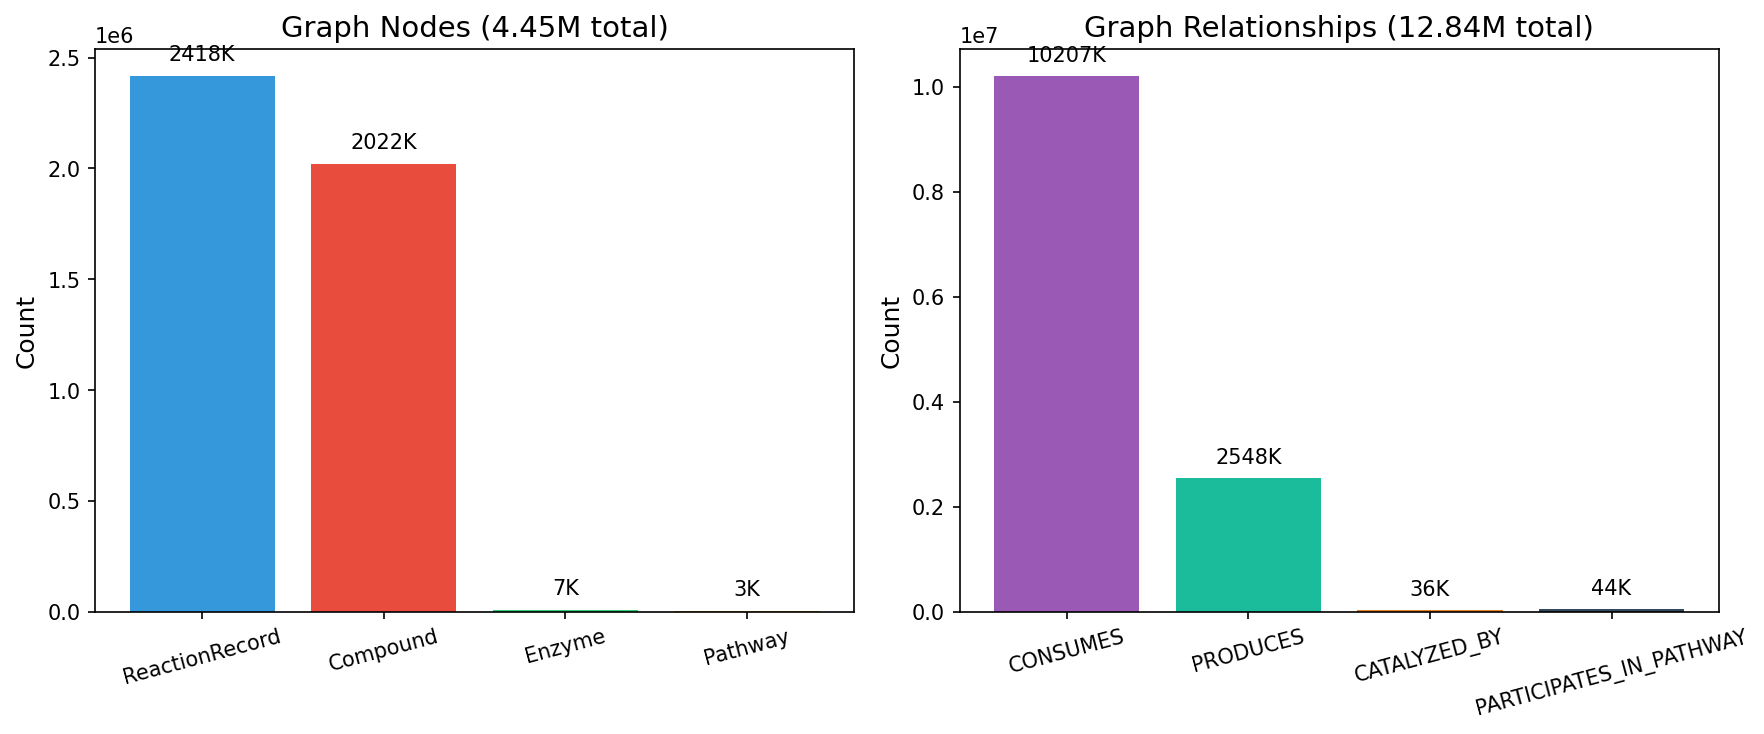
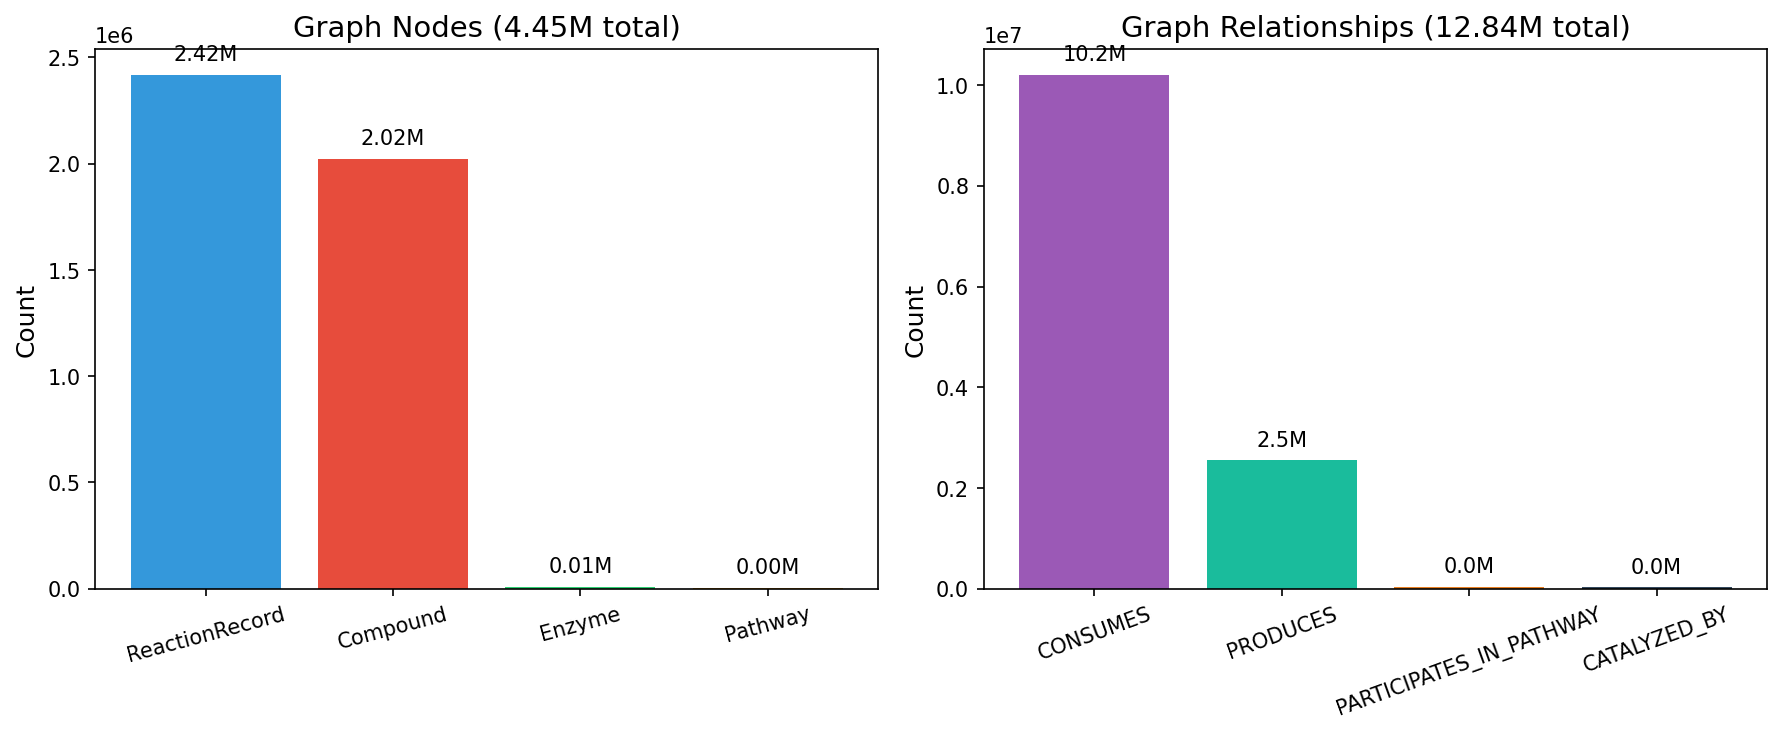
update0409

diff --git a/content/2026-04-09-energyretro-progress/11-bottlenecks.md b/content/2026-04-09-energyretro-progress/11-bottlenecks.md
@@ -1,0 +1,17 @@
+---
+section_key: single
+section_title: 单步逆合成
+subsection_title: 当前 Bottlenecks 与优化方向
+order: 11
+---
+### 当前指标偏低，还需要提升单步逆合成反应的性能，主要考虑从下面几个方面：
+- 当前使用的 `GLM-5` 更偏 `programming / tool-use` 风格模型，结构化输出比较稳定，但在多候选比较、化学反应机理判断、长链式推理上仍弱于真正的强 reasoning model
+- 当前 `context management` 还是静态窗口式的：`ContextBuilder` 只保留有限候选与证据，并用启发式权重聚合，弱证据和相似噪声容易一起进入 prompt
+- 系统还没有把成功路线、失败案例、常见 transformation pattern、enzyme/pathway 证据动态写回为 `memory nodes`，因此每次推理都在“重新开始”
+
+| 优化方向 | 具体要做什么 |
+| --- | --- |
+| 更强的 context 管理 | 做分层上下文压缩、candidate clustering、冲突证据去重、动态窗口分配 |
+| 更强的 prompt 编排 | 为 solver / critic / rewriter 设计更细的角色 prompt、显式步骤化推理和结构化中间产物 |
+| 动态记忆节点 | 把 successful routes、hard negatives、reaction motifs、enzyme/pathway evidence 写回 KG 或 memory layer |
+| 升级 reasoning backbone | 后续尝试更强 reasoning model，或者是8/32/72 B的小一点模型，与当前 GLM-5 agent workflow 做对比评测 |

diff --git a/content/2026-04-09-energyretro-progress/03-graph-schema.md b/content/2026-04-09-energyretro-progress/03-graph-schema.md
@@ -1,0 +1,24 @@
+---
+section_key: graph
+section_title: 构图
+subsection_title: 当前构图方案
+order: 4
+---
+
+- 当前图模型以 `ReactionRecord` 为核心，把所有反应级证据先固定在“反应记录”这一层
+- `Compound` 只保留分子属性，例如 `canonical_smiles`、`inchikey`、`morgan fingerprint`
+- 扩展节点包括 `Enzyme`、`Pathway`、`Fragment`，分别用于酶证据、代谢上下文和子结构检索
+
+| 类型 | 当前设计 | 作用 |
+| --- | --- | --- |
+| 节点 | `ReactionRecord` | 统一承载来源与反应级上下文 |
+| 节点 | `Compound` | 跨来源共享的分子身份 |
+| 节点 | `Enzyme` | 承载酶催化证据，服务酶推荐与可行性分析 |
+| 节点 | `Pathway` | 承载代谢通路上下文，服务 pathway 预测 |
+| 节点 | `Fragment` | 基于 RDKit `85` 个 `fr_*` 规则的片段层节点 |
+| 关系 | `CONSUMES / PRODUCES` | 反应物与产物展开 |
+| 关系 | `CATALYZED_BY` | 把反应记录连接到酶证据 |
+| 关系 | `PARTICIPATES_IN_PATHWAY` | 把反应记录连接到代谢通路 |
+| 关系 | `HAS_FRAGMENT` | 把分子连接到官能团/片段层，用于子结构检索 |
+
+<!-- ![EnergyRetro-KGR 节点关系](assets/EnergyRetro-KGR.png "w=58%") -->

diff --git a/content/260407-EnergyRetro-KGR/08-triple.md b/content/260407-EnergyRetro-KGR/08-triple.md
@@ -2,25 +2,25 @@
 section_key: triple
 section_title: 三元组
 subsection_title: "图谱三元组结构"
-order: 8
+order: 3
 ---
 
 ### 三元组类型统计
 
 | 头实体 | 关系 | 尾实体 | 数量 |
 |--------|------|--------|------|
-| ReactionRecord | CONSUMES | Compound | 31,513 |
-| ReactionRecord | PRODUCES | Compound | 16,718 |
-| ReactionRecord | PARTICIPATES_IN_PATHWAY | Pathway | 15,271 |
-| ReactionRecord | CATALYZED_BY | Enzyme | 4,961 |
+| ReactionRecord | CONSUMES | Compound | 10,207,237 |
+| ReactionRecord | PRODUCES | Compound | 2,548,612 |
+| ReactionRecord | PARTICIPATES_IN_PATHWAY | Pathway | 44,500 |
+| ReactionRecord | CATALYZED_BY | Enzyme | 36,949 |
 
 ### 节点类型统计
 
 | 节点类型 | 数量 | 语义 |
 |----------|------|------|
-| Compound | 11,755 | 化合物/分子 |
-| ReactionRecord | 10,000 | 反应记录 |
-| Enzyme | 2,918 | 酶 (EC编号) |
-| Pathway | 1,607 | 代谢路径 |
+| ReactionRecord | 2,418,465 | 反应记录 |
+| Compound | 2,022,086 | 化合物/分子 |
+| Enzyme | 7,826 | 酶 (EC编号) |
+| Pathway | 3,315 | 代谢路径 |
 
-### 三元组总数: 68,463
+### 三元组总数: 12,837,298

diff --git a/content/2026-04-09-energyretro-progress/08-capabilities.md b/content/2026-04-09-energyretro-progress/08-capabilities.md
@@ -1,0 +1,18 @@
+---
+section_key: retrieval
+section_title: 检索
+subsection_title: 当前图谱已经支持的查询能力
+order: 8
+---
+
+- 当前图谱已经不仅能“存反应”，而且已经能支撑几类直接有用的查询
+- 对 retrosynthesis 来说，最关键的是 `产物 -> 生成反应 -> 前体分子` 
+- 对 bio 相关任务来说，`产物 -> 酶证据` 和 `反应 -> pathway 上下文` 
+
+| 能力 | 当前查询路径 | 说明 |
+| --- | --- | --- |
+| 反查产物生成反应 | `Compound <-[:PRODUCES]- ReactionRecord` | retrosynthesis 基础入口 |
+| 前体展开 | `Compound <- PRODUCES - ReactionRecord - CONSUMES -> Compound` | 可直接做多级逆合成扩展 |
+| 酶证据查询 | `Compound <- PRODUCES - ReactionRecord - CATALYZED_BY -> Enzyme` | 支撑酶反应推荐 |
+| pathway 上下文 | `ReactionRecord - PARTICIPATES_IN_PATHWAY -> Pathway` | 支撑通路推荐/分析 |
+| 跨来源共享产物 | 同一 `Compound` 连接 `BKMS` 与 `ORD` | 支撑有机-酶促桥接分析 |

diff --git a/content/2026-04-09-energyretro-progress/01-overview.md b/content/2026-04-09-energyretro-progress/01-overview.md
@@ -1,0 +1,18 @@
+---
+section_key: overview
+section_title: 总览
+subsection_title: 本周进展
+order: 1
+---
+
+- 本周工作可以概括为三条线：`KG 构图完成`、`检索增强完成`、`single-step baseline 跑通`
+- 当前 `retro` 图谱已经整合 `BKMS + ORD`，形成统一的反应记录、化合物、酶、pathway 底座
+- 图谱规模已经达到 `2.42M ReactionRecord`、`2.02M Compound`、`12.84M` 基础关系，额外添加了 `Fragment` 层
+- staged retrieval 相比 exact match，命中从 `16%` 提升到 `100%`
+- 单步逆合成在 `USPTO50k test` 上测试结果：`Top-1 0.47`、`Top-10 0.59`
+
+| 模块 | 当前状态 | 结论 |
+| --- | --- | --- |
+| 统一构图 | 已经构图 | 图底座已经可查询 |
+| 检索增强 | 已评估 | recall 和抗噪声能力提升 |
+| single-step | 已跑通 | 先验证流程，再继续提精度 |

diff --git a/content/2026-04-09-energyretro-progress/04-scale.md b/content/2026-04-09-energyretro-progress/04-scale.md
@@ -1,0 +1,23 @@
+---
+section_key: graph
+section_title: 构图
+subsection_title: 数据来源与图谱规模
+order: 3
+---
+
+- 数据来源分两部分：`BKMS` 提供酶催化/代谢反应，`ORD` 提供大规模有机反应实验记录
+- 当前全量导入结果：
+  `BKMS 42,345` 条反应，`ORD 2,376,120` 条反应，合计 `2,418,465 ReactionRecord`
+- 当前基础图规模为 `4.45M` 节点、`12.84M` 基础关系，已经达到真实可检索的百万/千万级别
+- 在基础图之上，还额外挂上了 `85 Fragment` 节点和 `18.89M HAS_FRAGMENT` 边，作为子结构检索层
+
+| 统计项 | 数值 |
+| --- | --- |
+| `ReactionRecord` | 2,418,465 |
+| `Compound` | 2,022,086 |
+| `Enzyme` | 7,826 |
+| `Pathway` | 3,315 |
+| `Fragment` | 85 |
+| `HAS_FRAGMENT` | 18,892,205 |
+
+<!-- ![图谱节点与关系规模](assets/graph_stats.png "w=88%") -->

diff --git a/content/2026-04-09-energyretro-progress/12-downstream.md b/content/2026-04-09-energyretro-progress/12-downstream.md
@@ -1,0 +1,15 @@
+---
+section_key: roadmap
+section_title: 规划
+subsection_title: 拟定下游任务实验
+order: 12
+---
+
+- 下一阶段我不打算只继续做“图谱本身”，而是基于这套统一图底座推进四类下游任务
+
+| 下游任务 | 任务形式 | 图底座能提供什么 |
+| --- | --- | --- |
+| 多步合成规划 | 从目标分子递归搜索可行路线 | 用 `PRODUCES/CONSUMES` 做多跳 route expansion |
+| 酶催化反应识别 | 二分类：反应是否属于酶催化反应 | 用 `CATALYZED_BY` 与跨来源反应上下文做监督 |
+| 酶推荐 | 给定底物/产物或反应，推荐候选酶 | 用产物、底物、酶三者连接关系做 evidence retrieval |
+| 代谢通路预测 | 预测反应或分子所属 pathway | 用 `PARTICIPATES_IN_PATHWAY` 与跨反应上下文做推断 |

diff --git a/content/2026-04-09-energyretro-progress/06-retrieval.md b/content/2026-04-09-energyretro-progress/06-retrieval.md
@@ -1,0 +1,19 @@
+---
+section_key: retrieval
+section_title: 检索
+subsection_title: 分层检索方案
+order: 6
+---
+
+- 当前单步逆合成和图查询采用分层检索
+- 检索顺序是：
+  `Exact Match -> Canonical Alignment -> FP Similarity -> Substructure`
+- 其中 `smiels`、`canonical_smiles`、`morgan fingerprint`、`fragment_counts` 参与构造检索参数
+- 每一层都保留反应来源与支持证据，后续可以继续送入 Agent Context
+
+| 层级 | 作用 | 当前价值 |
+| --- | --- | --- |
+| `exact` | 直接命中同一分子 | 精度最高，但覆盖有限 |
+| `canonical` | 解决表示差异 | 提升规范化对齐能力 |
+| `similarity` | Morgan 指纹近邻 | 解决 exact 召回不足 |
+| `substructure` | 片段/官能团级 fallback | 为更难样本留出推理空间 |

diff --git a/content/260407-EnergyRetro-KGR/07-metrics.md b/content/260407-EnergyRetro-KGR/07-metrics.md
@@ -7,18 +7,18 @@ order: 7
 
 ### 1. 图密度（Graph Density）
 
-**Density = 0.000099** (V=26,280, E=68,463)
+**Density = 0.000001** (V=4.45M, E=12.84M)
 
 高密度意味着分子、反应与酶之间的关联更丰富，有利于多步推理。
 
 ### 2. 结构多样性（Structural Diversity）
 
-**Von Neumann Entropy（冯诺依曼商） = 10.57 bits**
+**Von Neumann Entropy（冯诺依曼熵） = 14.52 bits**
 
-Max Degree: 2521 | Super Nodes: 67 (0.57%)
+Max Degree: 461,560 | Super Nodes: 603 (0.03%)
 
 评估图谱是否过于集中在少数"超级节点"上。
 
 ### 3. 连通性与孤儿率（Connectivity & Orphan Rate）
 
-**Orphan Rate: 0.01%** (无前驱体 0.00%, 无产物 0.01%)
+**Orphan Rate: 0.01%** (无前驱体 0.00%, 无子节点 0.01%)

diff --git a/content/2026-04-09-energyretro-progress/09-single-pipeline.md b/content/2026-04-09-energyretro-progress/09-single-pipeline.md
@@ -1,0 +1,16 @@
+---
+section_key: single
+section_title: 单步逆合成
+subsection_title: Single-Step Pipeline
+order: 9
+---
+
+- 当前 `single-step` 原型已经把图检索层接进了完整流程
+- 整体流程为：
+  `LayeredRetriever -> ContextBuilder -> Solver Agents -> Critic -> Rewriter -> Selector`
+- 其中 solver 目前有五种策略：
+  `exact / canonical / similarity / substructure` / `balenced`
+- selector 最终输出的不只是一个答案，还包括：
+  `rankings`、`selection_reason`、`retrieval_summary`、`uncertainty_notes`
+
+![Single-step multi-agent pipeline](assets/2026-04-09-06-39-16-single-step-horizontal-paper.png "w=92%")

diff --git a/content/260407-EnergyRetro-KGR/02-graph-stats.md b/content/260407-EnergyRetro-KGR/02-graph-stats.md
@@ -5,9 +5,20 @@ subsection_title: "图谱构建统计"
 order: 2
 ---
 
-- **节点总数**: 4.45M
-- **关系总数**: 12.84M
-- **CONSUMES 关系**: 10.2M (主要关系类型)
-- **PRODUCES 关系**: 2.5M
+### 节点统计 (Total: 4.45M)
 
-![Graph Statistics](assets/graph_stats.png "w=80%")
+| 节点类型 | 数量 |
+|----------|------|
+| ReactionRecord | 2,418,465 |
+| Compound | 2,022,086 |
+| Enzyme | 7,826 |
+| Pathway | 3,315 |
+
+### 关系统计 (Total: 12.84M)
+
+| 关系类型 | 数量 |
+|----------|------|
+| CONSUMES | 10,207,237 |
+| PRODUCES | 2,548,612 |
+| PARTICIPATES_IN_PATHWAY | 44,500 |
+| CATALYZED_BY | 36,949 |

diff --git a/content/2026-04-09-energyretro-progress/10-single-results.md b/content/2026-04-09-energyretro-progress/10-single-results.md
@@ -1,0 +1,14 @@
+---
+section_key: single
+section_title: 单步逆合成
+subsection_title: 初步评测结果
+order: 10
+---
+
+- 当前在GLM5上完成 `USPTO50k test` 的评测 top-k 结果为：
+  
+  `Top-1 = 0. 47`、`Top-3 = 0.51`、`Top-5 = 0.57`、`Top-10 = 0.59`
+- 从样例输出看，当前很多候选仍主要依赖 `similarity` 层支持，模型推理能力不足
+- 所以下一步重点把 retrieval 质量和 route ranking 做强，提升COT与Reasoning的能力
+
+![LLM Bench](assets/image.png "w=60%")
